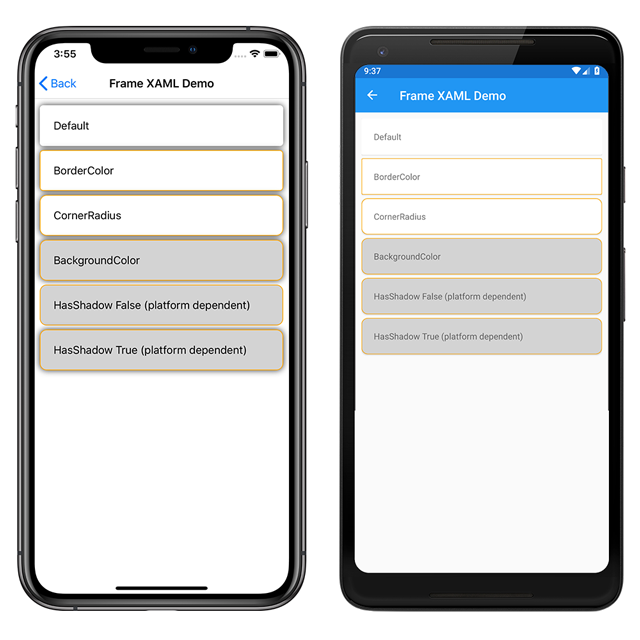
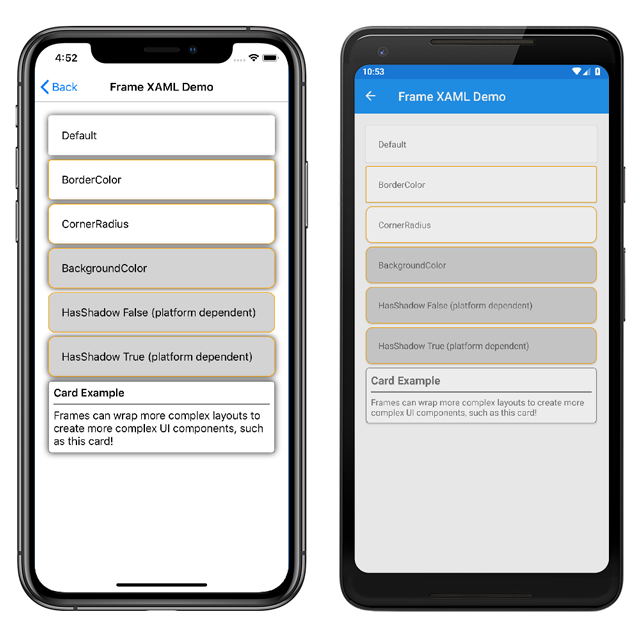
Fixed padding issue and updated screenshot with new card

diff --git a/UserInterface/FrameDemos/FrameDemos/FrameDemos/FrameXamlPage.xaml b/UserInterface/FrameDemos/FrameDemos/FrameDemos/FrameXamlPage.xaml
@@ -9,7 +9,7 @@
              Title="Frame XAML Demo">
   <ContentPage.Content>
     <ScrollView>
-      <StackLayout>
+      <StackLayout Padding="10">
         <Frame>
           <Label Text="Default" />
         </Frame>
